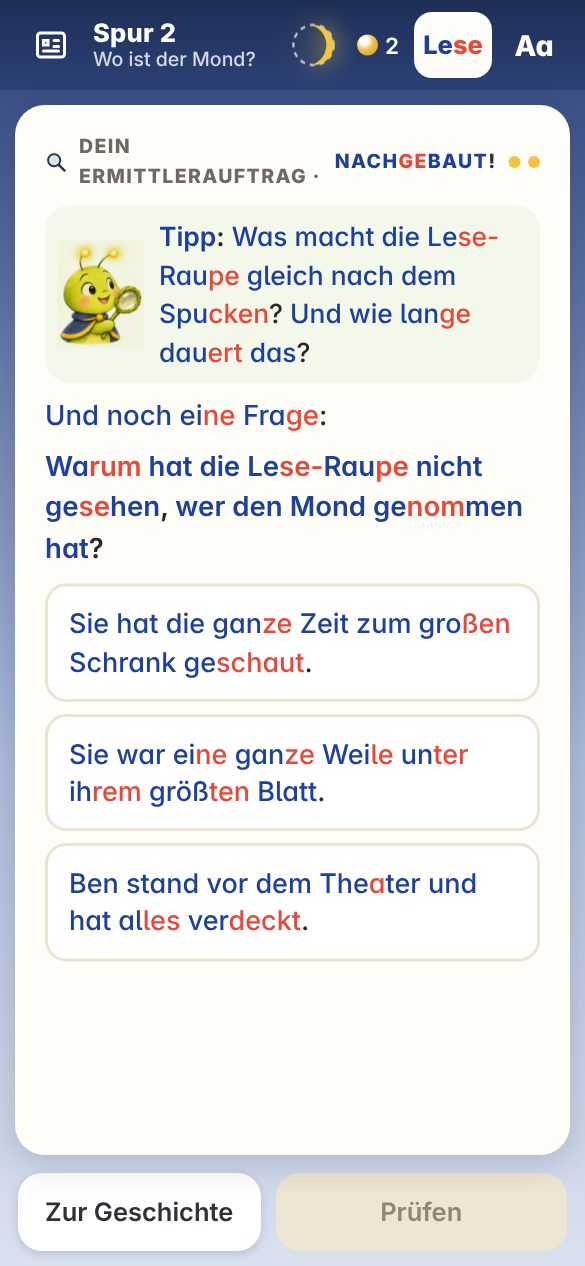
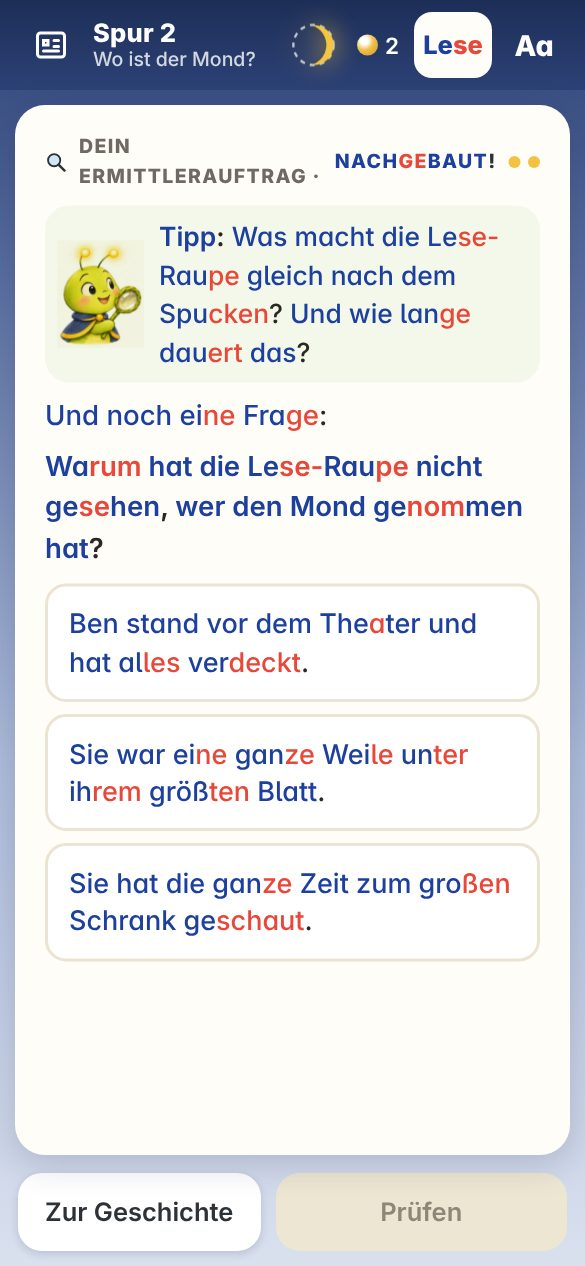
e2e: größte Schrift, Zurück, Wiederholung ohne Fortschrittsänderung, Neustart mitten in der Spur (A14)
Claude-Session: https://claude.ai/code/session_01XbiCnECXMiu6RfpngsWtJQ

Changed region(s): [[0.1231, 0.4621, 0.8615, 0.5545], [0.1231, 0.6777, 0.8615, 0.7393]]

diff --git a/app/STATUS.md b/app/STATUS.md
@@ -20,6 +20,8 @@
 
 - 6.11, пакет А (ревью): победа прямо в игре → «Spur sichern» → кисточка по новой карточке на Spurenwand → буква; Spur 4 одним экраном (образец + находка, «что не хватает», печать); улика Spur 5 «Glänzende Finger»; конец главы «Weiter zu Kapitel 2» (заглушка) / «Für heute fertig»; замок с вводом цифр; Vorgeschichte в «Aa»; гусеничка на веточке вместо точек; доказательство из двух соседних предложений; «Weitere Hilfe» одной строкой. НЕ сделано: «Zeig den Beweis!» сразу на нужный лист — противоречит A-11 ✅, нужно решение в DECISIONS.md. Пакет Б (Spur 2, 3, 5, 6, сейф) ждёт AUFGABEN.
 
+- 6.11, А10–А14: вывод «что мы узнали» на каждой улике + окно с выводом и предложением из текста (повтор игры — маленькой кнопкой); Spur 5 после решения — крупный список 1–4; тексты победы говорят о действии ребёнка, после помощи «Du hast im Text nachgesehen und den Grund gefunden.»; Android «Назад» через @capacitor/app; e2e: прогон с самым крупным шрифтом, «Назад» из игры/поиска/настроек, повтор без изменения прогресса, перезапуск посреди сцены. А13 (убрать названия игр из шапки задания) не сделано — противоречит D-14 ✅ / SPIELE.md.
+
 ## Дальше
 - Проход владелицей на телефоне, правки по замечаниям.
 - APK на компьютере владелицы, проверка Safe Areas на реальном устройстве.
